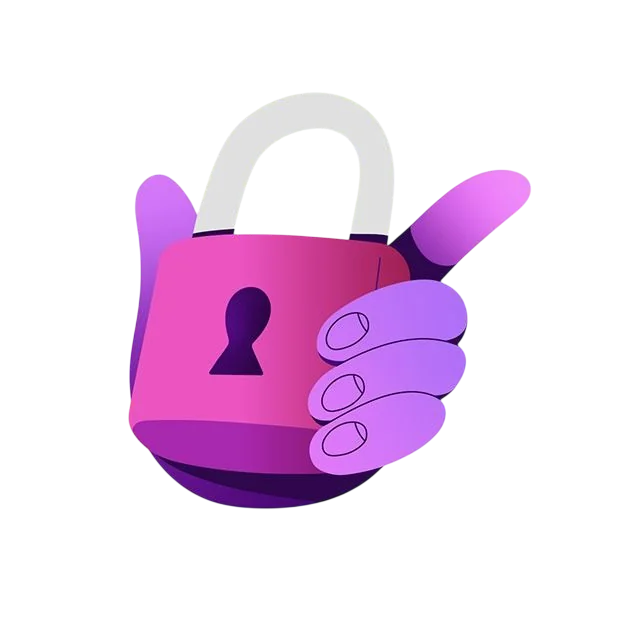
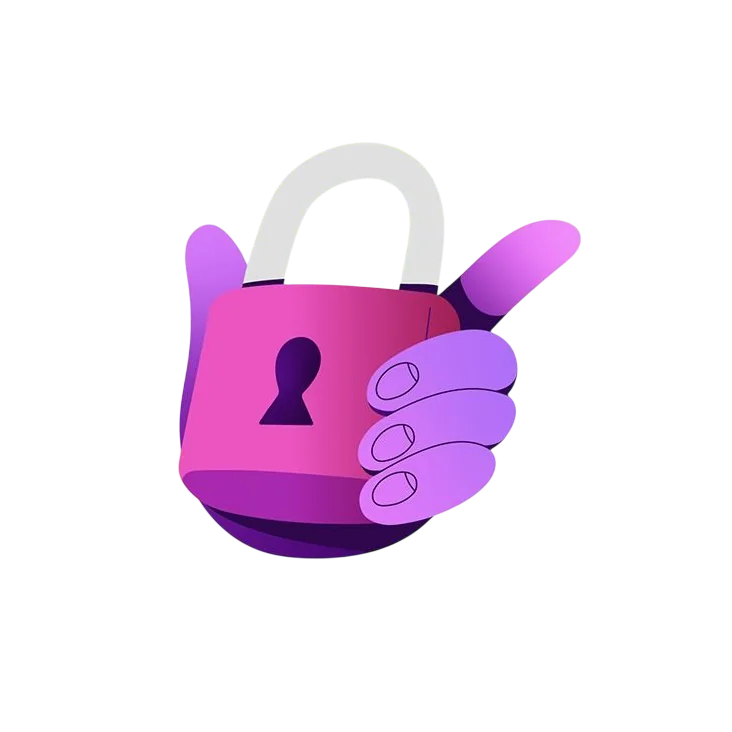
fix(features): draw the No Data Collected art ~18% smaller
66px of transparent padding baked into no-data.webp (732x732, art 600),
so the art draws at 82% of its box width. Card.tsx unchanged.

Changed region(s): [[0.1804, 0.1503, 0.8418, 0.8117], [0.3307, 0.4509, 0.4509, 0.6013]]

diff --git a/sections/Features.tsx b/sections/Features.tsx
@@ -50,7 +50,7 @@ const CARDS: CardData[] = [
   {
     heading: ["No Data", "Collected"],
     copy: "We don’t ask for seed phrases, private keys, or personal information. Completely safe to use.",
-    media: { kind: "image", src: "/images/no-data.webp", w: 632, h: 632 },
+    media: { kind: "image", src: "/images/no-data.webp", w: 732, h: 732 },
   },
   {
     heading: ["Send Between", "Users"],
